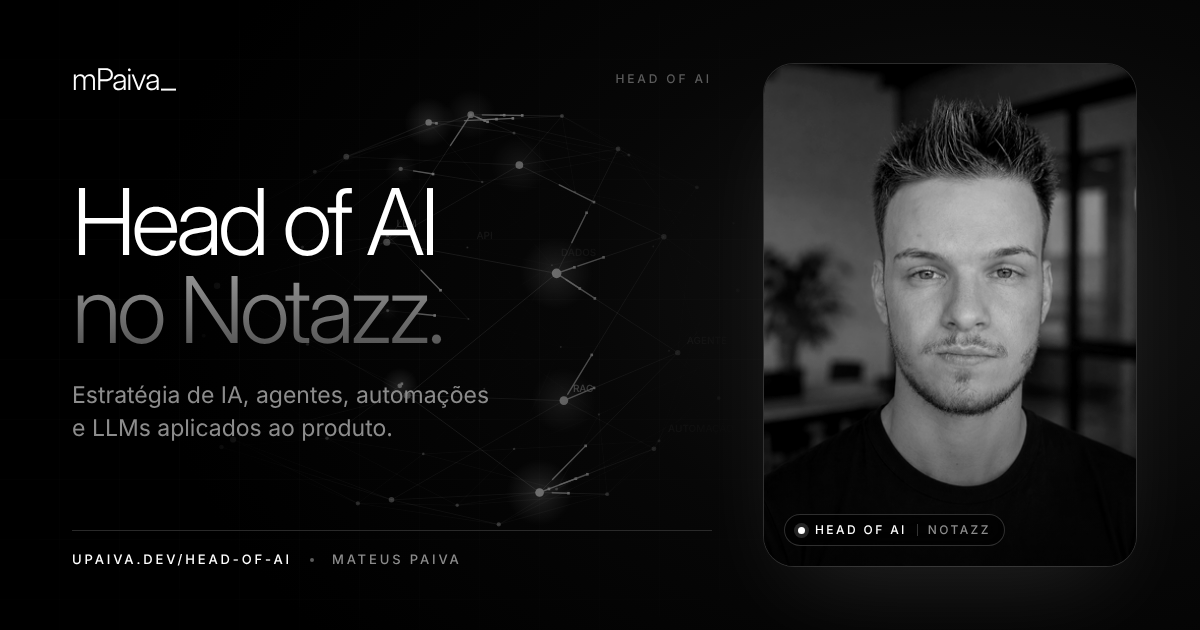
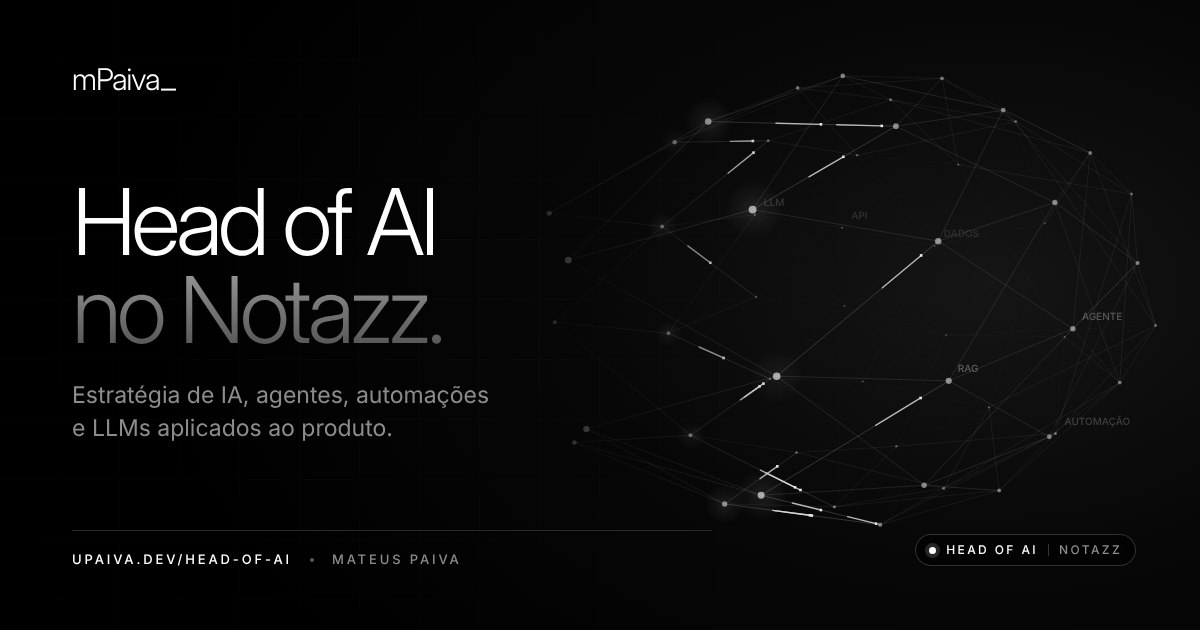
Volta a assinatura mPaiva_ em partículas na home e prévias sem foto (#13)
- No fim da home, as partículas do fundo voltam a se juntar e escrever mPaiva_
  no topo do rodapé, com o brilho que atravessa a palavra e o cursor que
  espalha as partículas. Sem animação (movimento reduzido), o nome aparece em
  degradê. As subpáginas seguem com o logo do menu.
- Imagens de prévia do link (home, subpáginas e /head-of-ai) refeitas sem a
  foto: texto à esquerda e a rede neural do site à direita. As metas ganham
  ?v=2 para os apps buscarem a imagem nova, e a imagem antiga
  og-mateus-paiva.png também foi trocada.

Claude-Session: https://claude.ai/code/session_01Sj8PKK4huqjosybm8dpnMr

diff --git a/site.js b/site.js
@@ -767,10 +767,51 @@
         rnd = Array.from({ length: N }, () => [Math.random(), Math.random(), Math.random()]);
         pos = rnd.map((r) => [(r[0] - 0.5) * 6, (r[1] - 0.5) * 4, (r[2] - 0.5) * 3]);
         from = pos.map((p) => p.slice());
+        push = rnd.map(() => [0, 0]);
       }
+      sampleText();
     };
 
-    const target = (i, t) => {
+    // no fim da página, as mesmas partículas se juntam e escrevem a assinatura mPaiva_
+    const NAME = { el: $(".footer-giant"), pts: [] };
+    let push = [], mx = -9999, my = -9999, textRect = null;
+    const sampleText = () => {
+      const el = NAME.el;
+      if (!el || !N) return;
+      const r = el.getBoundingClientRect(), cs = getComputedStyle(el);
+      if (!r.width) return;
+      const W = Math.ceil(r.width), H = Math.ceil(r.height);
+      const off = document.createElement("canvas"); off.width = W; off.height = H;
+      const o = off.getContext("2d", { willReadFrequently: true });
+      const size = parseFloat(cs.fontSize);
+      o.font = `500 ${size}px ${cs.fontFamily}`;
+      if ("letterSpacing" in o) o.letterSpacing = cs.letterSpacing;
+      o.textAlign = "center"; o.textBaseline = "middle"; o.fillStyle = "#fff";
+      o.fillText(el.dataset.text, W / 2, parseFloat(cs.paddingTop) + (H - parseFloat(cs.paddingTop) - parseFloat(cs.paddingBottom)) / 2);
+      const data = o.getImageData(0, 0, W, H).data;
+      const step = Math.max(2, Math.round(size / 70));
+      const pts = [];
+      for (let y = 0; y < H; y += step) for (let x = 0; x < W; x += step) if (data[(y * W + x) * 4 + 3] > 140) pts.push([x + (Math.random() - 0.5) * step, y + (Math.random() - 0.5) * step]);
+      if (!pts.length) return;
+      for (let k = pts.length - 1; k > 0; k--) { const j = (Math.random() * (k + 1)) | 0; [pts[k], pts[j]] = [pts[j], pts[k]]; }
+      NAME.pts = Array.from({ length: N }, (_, i) => pts[i % pts.length]);
+      document.documentElement.classList.add("has-ambient");
+    };
+    const textTarget = (i, t, cx, cy) => {
+      const p = NAME.pts[i];
+      if (!p || !textRect) return [0, 0, 0];
+      let X = textRect.left + p[0], Y = textRect.top + p[1];
+      // o cursor espalha as partículas e elas voltam com mola
+      const dx = X - mx, dy = Y - my, d = Math.hypot(dx, dy), R = small ? 0 : 110;
+      let px = 0, py = 0;
+      if (d < R && d > 0.01) { const f = Math.pow(1 - d / R, 2) * 70; px = (dx / d) * f; py = (dy / d) * f; }
+      const q = push[i]; q[0] += (px - q[0]) * 0.14; q[1] += (py - q[1]) * 0.14;
+      X += q[0] + Math.sin(t * 1.3 + i) * 0.6; Y += q[1] + Math.cos(t * 1.1 + i * 0.7) * 0.6;
+      return [(X - cx) / U, (Y - cy) / U, 0];
+    };
+
+    const target = (i, t, cx, cy) => {
+      if (shape === "name") return textTarget(i, t, cx, cy);
       const sh = SHAPES[shape];
       const p = rot(sh.f(i, i / N, rnd[i], t), yaw, pitch);
       p[0] += small ? 0 : sh.ox * (w / h > 1.2 ? 1.25 : 1); p[1] += small ? 0 : sh.oy;
@@ -783,22 +824,34 @@
       yaw += (yawT - yaw) * 0.04; pitch += (pitchT - pitch) * 0.04;
       ctx.clearRect(0, 0, w, h);
       if (fade < 0.005 && fadeTarget === 0) { raf = 0; return; }
-      const cx = w / 2, cy = h / 2;
-      const base = (small ? 0.34 : 0.62) * fade * (SHAPES[shape]?.a ?? 1);
+      const cx = w / 2, cy = h / 2, isName = shape === "name";
+      const base = (isName ? 0.95 : small ? 0.34 : 0.62) * fade * (SHAPES[shape]?.a ?? 1);
+      // um brilho atravessa a assinatura enquanto ela está montada
+      let shineX = 0, shineW = 1;
+      if (isName) {
+        textRect = NAME.el.getBoundingClientRect();
+        shineW = textRect.width; shineX = textRect.left + ((t * 0.28) % 1.6 - 0.3) * shineW;
+      }
+      const dur = isName ? 2400 : DUR;
       for (let i = 0; i < N; i++) {
         let p = pos[i];
         if (shape !== "none") {
-          const q = target(i, t);
+          const q = target(i, t, cx, cy);
           const d = (rnd[i][0] * 0.35);
-          let k = Math.min(1, Math.max(0, ((now - switchAt) / DUR - d) / (1 - 0.35)));
+          let k = Math.min(1, Math.max(0, ((now - switchAt) / dur - d) / (1 - 0.35)));
           k = k < 0.5 ? 4 * k * k * k : 1 - Math.pow(-2 * k + 2, 3) / 2;
           const f = from[i];
           p = pos[i] = [f[0] + (q[0] - f[0]) * k, f[1] + (q[1] - f[1]) * k, f[2] + (q[2] - f[2]) * k];
         }
         const s = 3 / (3 + p[2]);
         if (s <= 0) continue;
-        const a = base * Math.min(1, 0.25 + 0.75 * (1 - (p[2] + 1.5) / 3)) * (0.55 + rnd[i][1] * 0.45);
-        const r = 0.6 + s * 1.05 + (rnd[i][2] > 0.96 ? 1.1 : 0);
+        let a = base * Math.min(1, 0.25 + 0.75 * (1 - (p[2] + 1.5) / 3)) * (0.55 + rnd[i][1] * 0.45);
+        let r = 0.6 + s * 1.05 + (rnd[i][2] > 0.96 ? 1.1 : 0);
+        if (isName) {
+          const X = cx + p[0] * U, band = Math.exp(-Math.pow((X - shineX) / (shineW * 0.07), 2));
+          a = Math.min(1, base * (0.62 + rnd[i][1] * 0.38) + band * 0.5 * fade);
+          r = (small ? 1.3 : 1.7) + band * 1.2;
+        }
         if (a < 0.01) continue;
         ctx.fillStyle = `rgba(255,255,255,${a.toFixed(3)})`;
         ctx.fillRect(cx + p[0] * U * s - r / 2, cy + p[1] * U * s - r / 2, r, r);
@@ -817,14 +870,19 @@
 
     resize();
     window.addEventListener("resize", resize, { passive: true });
-    // cada seção escolhe uma forma; o card "Agora" e o rodapé têm desenho próprio, então as partículas se apagam
+    document.fonts?.ready.then(sampleText);
+    // cada seção escolhe uma forma; o card "Agora" tem desenho próprio e o rodapé recebe a assinatura
     const spy = new IntersectionObserver((entries) => {
-      entries.forEach((e) => { if (e.isIntersecting) setShape(MAP[e.target.id] || "none"); });
+      entries.forEach((e) => { if (e.isIntersecting) {
+        const next = e.target.classList.contains("footer") ? "name" : MAP[e.target.id] || "none";
+        setShape(next === "name" && !NAME.pts.length ? "none" : next);
+      } });
     }, { rootMargin: "-50% 0px -50% 0px" });
     $$("main > section, .footer").forEach((sec) => spy.observe(sec));
     document.addEventListener("visibilitychange", () => { if (document.hidden) { cancelAnimationFrame(raf); raf = 0; } else if (fadeTarget) start(); });
     if (finePointer.matches) {
-      window.addEventListener("pointermove", (e) => { yawT = (e.clientX / innerWidth - 0.5) * 0.5; pitchT = (e.clientY / innerHeight - 0.5) * 0.3; }, { passive: true });
+      window.addEventListener("pointermove", (e) => { mx = e.clientX; my = e.clientY; yawT = (e.clientX / innerWidth - 0.5) * 0.5; pitchT = (e.clientY / innerHeight - 0.5) * 0.3; }, { passive: true });
+      document.documentElement.addEventListener("pointerleave", () => { mx = my = -9999; });
     }
   };
 
@@ -988,6 +1046,18 @@
         const pillars = $$(".now-pillars li", card);
         gsap.from(pillars, { y: 16, opacity: 0, duration: 1, ease: "expo.out", stagger: 0.07, delay: 0.5, scrollTrigger: enter });
         gsap.fromTo(pillars, { "--fill": 0 }, { "--fill": 1, duration: 1.1, ease: "power3.inOut", stagger: 0.18, delay: 0.7, scrollTrigger: enter });
+      }
+
+      // assinatura do rodapé sem as partículas: letras chegam do fundo e um brilho atravessa a palavra
+      const giant = $(".footer-giant");
+      if (giant && SplitText && !document.documentElement.classList.contains("has-ambient")) {
+        const split = new SplitText(giant.querySelector(".fg-word"), { type: "chars", charsClass: "ch" });
+        const chars = [...split.chars, giant.querySelector(".fg-caret")];
+        gsap.timeline({ scrollTrigger: { trigger: giant, start: "top bottom", end: "center 45%", scrub: 1.2, refreshPriority: -1 } })
+          .from(chars, { opacity: 0, filter: "blur(28px)", scale: 2.6, rotationX: -75, yPercent: 35, z: 260, ease: "power3.out", duration: 1, stagger: { each: 0.09, from: "center" } }, 0)
+          .from(giant, { letterSpacing: "0.32em", ease: "power2.out", duration: 1.2 }, 0)
+          .fromTo(giant, { "--glow": 0 }, { "--glow": 1, ease: "power1.in", duration: 0.6 }, 0.5)
+          .fromTo(giant, { "--shine": "160%" }, { "--shine": "-60%", ease: "power2.inOut", duration: 0.7 }, 1.1);
       }
     });
 

diff --git a/index.html b/index.html
@@ -33,8 +33,8 @@
     content="Sistemas web, automações, agentes de IA, SEO técnico e soluções digitais. Head of AI no Notazz, aberto a projetos freelancer e parcerias."
   />
   <meta property="og:url" content="https://upaiva.dev/" />
-  <meta property="og:image" content="https://upaiva.dev/assets/og/og-upaiva.png" />
-  <meta property="og:image:secure_url" content="https://upaiva.dev/assets/og/og-upaiva.png" />
+  <meta property="og:image" content="https://upaiva.dev/assets/og/og-upaiva.png?v=2" />
+  <meta property="og:image:secure_url" content="https://upaiva.dev/assets/og/og-upaiva.png?v=2" />
   <meta property="og:image:type" content="image/png" />
   <meta property="og:image:width" content="1200" />
   <meta property="og:image:height" content="630" />
@@ -46,13 +46,13 @@
     name="twitter:description"
     content="Sistemas web, automações, agentes de IA, SEO técnico e soluções digitais. Head of AI no Notazz, aberto a projetos freelancer e parcerias."
   />
-  <meta name="twitter:image" content="https://upaiva.dev/assets/og/og-upaiva.png" />
+  <meta name="twitter:image" content="https://upaiva.dev/assets/og/og-upaiva.png?v=2" />
   <meta name="twitter:image:alt" content="Mateus Paiva, Head of AI no Notazz e desenvolvedor full stack" />
 
   <link rel="preload" href="/assets/fonts/inter-display-light.woff2" as="font" type="font/woff2" crossorigin />
   <link rel="preload" href="/assets/fonts/inter-regular.woff2" as="font" type="font/woff2" crossorigin />
   <link rel="preconnect" href="https://cdn.jsdelivr.net" crossorigin />
-  <link rel="stylesheet" href="/site.css?v=20261101-stack" />
+  <link rel="stylesheet" href="/site.css?v=20261101-mpaiva" />
 
   <script type="application/ld+json">
     {
@@ -541,9 +541,7 @@
   </main>
 
   <footer class="footer">
-    <div class="wrap footer-top">
-      <p class="wordmark footer-mark" aria-hidden="true"><span class="fm-word">mPaiva</span><span class="caret"></span></p>
-    </div>
+    <p class="footer-giant" aria-hidden="true" data-text="mPaiva_"><span class="fg-word">mPaiva</span><span class="fg-caret">_</span></p>
     <div class="wrap footer-inner">
       <div class="footer-brand">
         <p>Desenvolvedor Full Stack · IA Aplicada · Automação · SEO Técnico</p>
@@ -613,7 +611,7 @@
   <script src="/assets/vendor/gsap/ScrollTrigger.min.js" defer></script>
   <script src="/assets/vendor/gsap/SplitText.min.js" defer></script>
   <script src="/net.js?v=20261101-agora" defer></script>
-  <script src="/site.js?v=20261101-agora" defer></script>
+  <script src="/site.js?v=20261101-mpaiva" defer></script>
   <script src="/footer.js?v=20261101-stack" defer></script>
   <script src="/analytics-pro-complete.js?v=20260619-audit-agent-1" defer></script>
 </body>

diff --git a/site.css b/site.css
@@ -295,6 +295,17 @@ html.has-cursor input, html.has-cursor textarea, html.has-cursor select { cursor
 .footer-mark .caret { height: max(2.5px, .045em); }
 .footer-mark .fm-word.is-decoding { display: inline-block; overflow: hidden; vertical-align: bottom; }
 .footer-meta { display: flex; align-items: center; gap: 28px; flex-wrap: wrap; }
+/* assinatura da home: as partículas do fundo se juntam e escrevem mPaiva_; sem elas, o texto aparece em degradê */
+.footer-giant { --shine: -60%; --glow: 0; position: relative; isolation: isolate; font: 400 clamp(56px, 12.5vw, 200px)/1.05 var(--display); letter-spacing: -.055em; padding: .08em var(--gutter) .14em; margin: 0 0 clamp(32px, 5vw, 64px); white-space: nowrap; text-align: center; perspective: 900px; overflow: hidden; }
+.footer-giant > span, .footer-giant .ch { display: inline-block; color: transparent; background: linear-gradient(180deg, #fff 18%, #bdbdbd 58%, #5c5c5c 100%); -webkit-background-clip: text; background-clip: text; }
+.footer-giant .ch { transform-origin: 50% 85%; will-change: transform, opacity, filter; }
+.footer-giant .fg-caret { animation: blink 1.05s steps(1) infinite; }
+.footer-giant::before { content: ""; position: absolute; inset: 0 max(10%, calc(50% - 480px)); z-index: -1; transform: scale(calc(.6 + var(--glow) * .4)); background: radial-gradient(closest-side, rgba(255,255,255,.16), rgba(255,255,255,0)); opacity: var(--glow); pointer-events: none; }
+.footer-giant::after { content: attr(data-text); position: absolute; inset: 0; padding: inherit; color: transparent; background: linear-gradient(105deg, rgba(255,255,255,0) 42%, rgba(255,255,255,.95) 50%, rgba(255,255,255,0) 58%) var(--shine) 0 / 250% 100% no-repeat; -webkit-background-clip: text; background-clip: text; pointer-events: none; }
+.has-ambient .footer-giant { --glow: .55; }
+.has-ambient .footer-giant > span { visibility: hidden; }
+.has-ambient .footer-giant::after { display: none; }
+@media (max-width: 600px) { .footer-giant { font-size: 21vw; } }
 .to-top { display: inline-flex; align-items: center; color: var(--muted); }
 .to-top:hover { color: #fff; }
 

diff --git a/head-of-ai.html b/head-of-ai.html
@@ -30,8 +30,8 @@
     content="Estratégia, engenharia e inovação em IA: agentes, LLMs, automação inteligente e integrações aplicadas a problemas reais, com resultados mensuráveis."
   />
   <meta property="og:url" content="https://upaiva.dev/head-of-ai" />
-  <meta property="og:image" content="https://upaiva.dev/assets/og/og-head-of-ai.png" />
-  <meta property="og:image:secure_url" content="https://upaiva.dev/assets/og/og-head-of-ai.png" />
+  <meta property="og:image" content="https://upaiva.dev/assets/og/og-head-of-ai.png?v=2" />
+  <meta property="og:image:secure_url" content="https://upaiva.dev/assets/og/og-head-of-ai.png?v=2" />
   <meta property="og:image:type" content="image/png" />
   <meta property="og:image:width" content="1200" />
   <meta property="og:image:height" content="630" />
@@ -43,7 +43,7 @@
     name="twitter:description"
     content="Estratégia de IA, agentes, LLMs, automação inteligente e integrações, do planejamento à evolução contínua."
   />
-  <meta name="twitter:image" content="https://upaiva.dev/assets/og/og-head-of-ai.png" />
+  <meta name="twitter:image" content="https://upaiva.dev/assets/og/og-head-of-ai.png?v=2" />
   <meta name="twitter:image:alt" content="Mateus Paiva, Head of AI no Notazz: estratégia de IA, agentes, automações e LLMs aplicados ao produto" />
 
   <script type="application/ld+json">

diff --git a/sistemas-web-inteligentes.html b/sistemas-web-inteligentes.html
@@ -30,8 +30,8 @@
     content="Sistemas web completos com backend, frontend, banco de dados, APIs, automações, agentes de IA, LLM, RAG e SEO técnico para resolver problemas reais de negócios."
   />
   <meta property="og:url" content="https://upaiva.dev/sistemas-web-inteligentes" />
-  <meta property="og:image" content="https://upaiva.dev/assets/og/og-upaiva.png" />
-  <meta property="og:image:secure_url" content="https://upaiva.dev/assets/og/og-upaiva.png" />
+  <meta property="og:image" content="https://upaiva.dev/assets/og/og-upaiva.png?v=2" />
+  <meta property="og:image:secure_url" content="https://upaiva.dev/assets/og/og-upaiva.png?v=2" />
   <meta property="og:image:type" content="image/png" />
   <meta property="og:image:width" content="1200" />
   <meta property="og:image:height" content="630" />
@@ -43,7 +43,7 @@
     name="twitter:description"
     content="Desenvolvimento de sistemas web inteligentes com IA aplicada, automações, integrações com APIs, dashboards e SEO técnico."
   />
-  <meta name="twitter:image" content="https://upaiva.dev/assets/og/og-upaiva.png" />
+  <meta name="twitter:image" content="https://upaiva.dev/assets/og/og-upaiva.png?v=2" />
   <meta name="twitter:image:alt" content="Mateus Paiva, Head of AI no Notazz e desenvolvedor full stack" />
 
   <script type="application/ld+json">

diff --git a/desenvolvedor-full-stack-sao-jose-dos-campos.html b/desenvolvedor-full-stack-sao-jose-dos-campos.html
@@ -29,8 +29,8 @@
     content="Sistemas web, automações, agentes de IA, SEO técnico e soluções digitais para empresas. Aberto a projetos freelancer e parcerias."
   />
   <meta property="og:url" content="https://upaiva.dev/desenvolvedor-full-stack-sao-jose-dos-campos" />
-  <meta property="og:image" content="https://upaiva.dev/assets/og/og-upaiva.png" />
-  <meta property="og:image:secure_url" content="https://upaiva.dev/assets/og/og-upaiva.png" />
+  <meta property="og:image" content="https://upaiva.dev/assets/og/og-upaiva.png?v=2" />
+  <meta property="og:image:secure_url" content="https://upaiva.dev/assets/og/og-upaiva.png?v=2" />
   <meta property="og:image:type" content="image/png" />
   <meta property="og:image:width" content="1200" />
   <meta property="og:image:height" content="630" />
@@ -42,7 +42,7 @@
     name="twitter:description"
     content="Sistemas web, automações, agentes de IA, SEO técnico e soluções digitais para empresas."
   />
-  <meta name="twitter:image" content="https://upaiva.dev/assets/og/og-upaiva.png" />
+  <meta name="twitter:image" content="https://upaiva.dev/assets/og/og-upaiva.png?v=2" />
   <meta name="twitter:image:alt" content="Mateus Paiva, Head of AI no Notazz e desenvolvedor full stack" />
 
   <script type="application/ld+json">

diff --git a/perfil-profissional.html b/perfil-profissional.html
@@ -32,8 +32,8 @@
     content="Sistemas web, automações, agentes de IA, SEO técnico e soluções digitais. Projetos freelancer e parcerias."
   />
   <meta property="og:url" content="https://upaiva.dev/perfil-profissional.html" />
-  <meta property="og:image" content="https://upaiva.dev/assets/og/og-upaiva.png" />
-  <meta property="og:image:secure_url" content="https://upaiva.dev/assets/og/og-upaiva.png" />
+  <meta property="og:image" content="https://upaiva.dev/assets/og/og-upaiva.png?v=2" />
+  <meta property="og:image:secure_url" content="https://upaiva.dev/assets/og/og-upaiva.png?v=2" />
   <meta property="og:image:type" content="image/png" />
   <meta property="og:image:width" content="1200" />
   <meta property="og:image:height" content="630" />
@@ -45,7 +45,7 @@
     name="twitter:description"
     content="Sistemas web, automações, agentes de IA, SEO técnico e soluções digitais. Projetos freelancer e parcerias."
   />
-  <meta name="twitter:image" content="https://upaiva.dev/assets/og/og-upaiva.png" />
+  <meta name="twitter:image" content="https://upaiva.dev/assets/og/og-upaiva.png?v=2" />
   <meta name="twitter:image:alt" content="Mateus Paiva, Head of AI no Notazz e desenvolvedor full stack" />
 
   <script type="application/ld+json">
